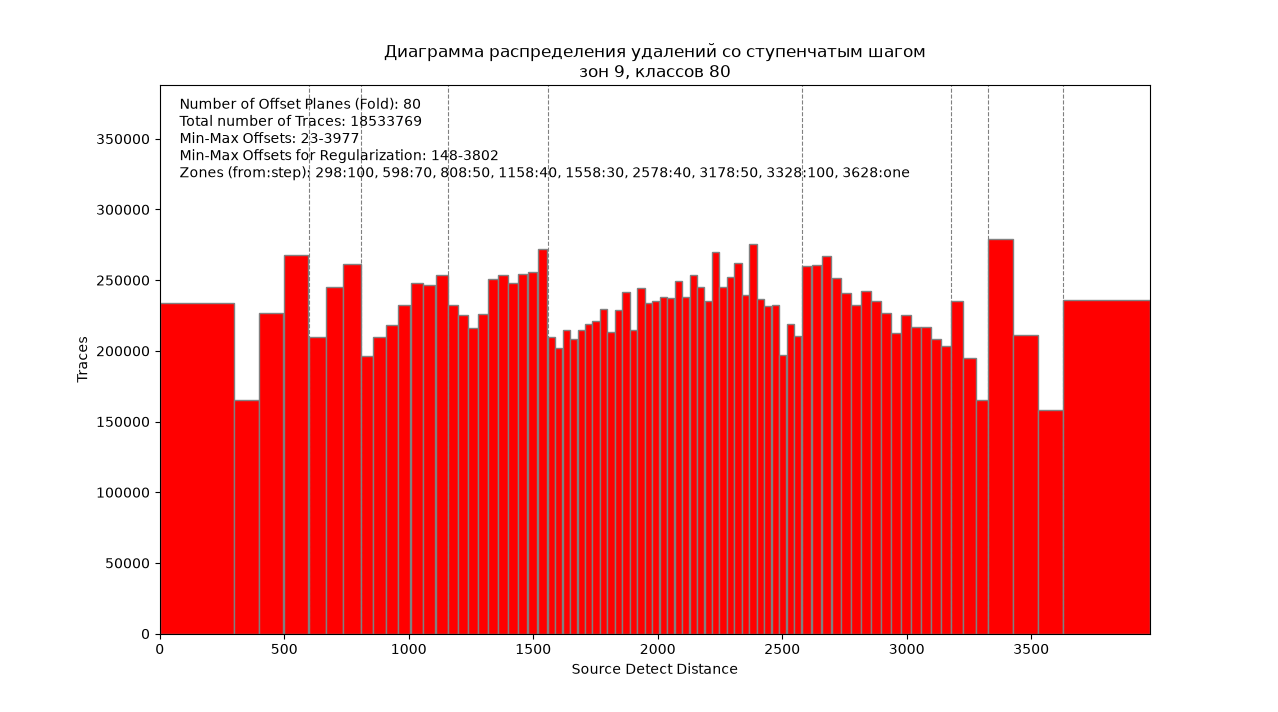
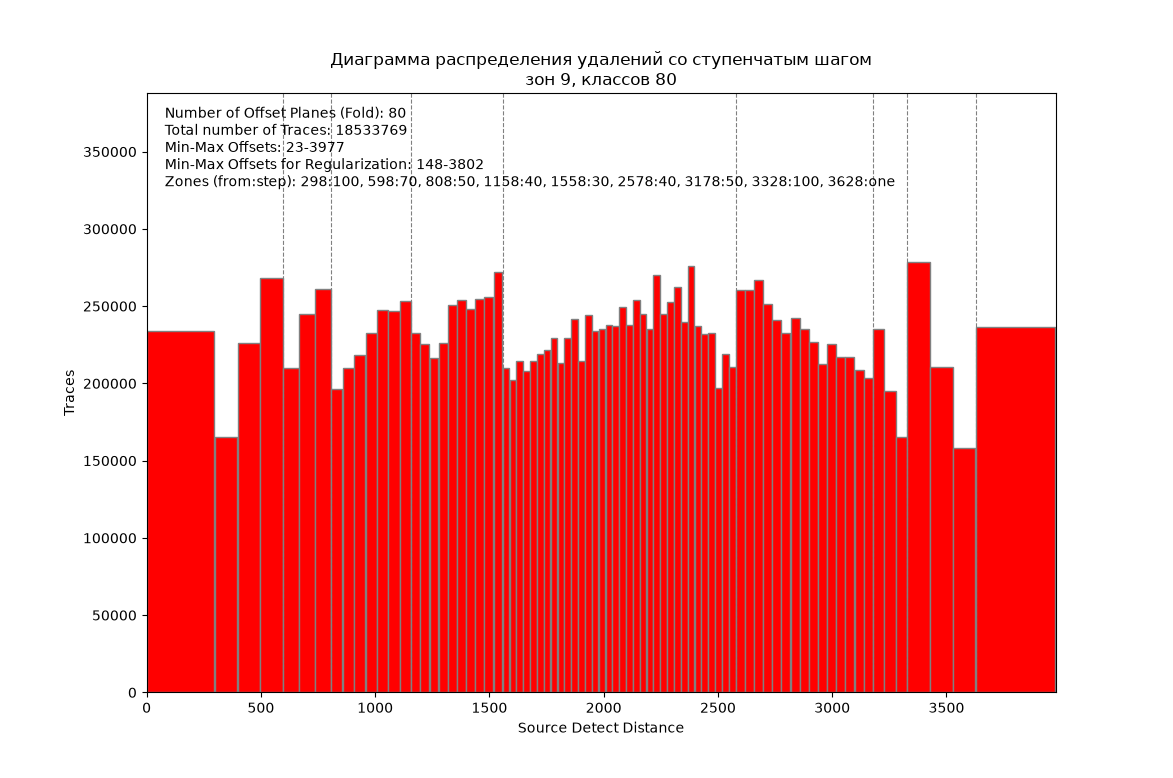
histogram_for_reg: картинки английской версии и окно со списком языка

diff --git a/docs/histogram_for_reg.en.md b/docs/histogram_for_reg.en.md
@@ -4,7 +4,7 @@ Offset distribution histogram for planning 3D regularization of seismic data. Th
 program splits offsets into classes, shows a histogram and writes a table of
 classes next to the input file, ready to be passed to 3D regularization.
 
-![histogram_for_reg window](img/histogram.png)
+![histogram_for_reg window](img/histogram_en.png)
 
 ## Download
 
@@ -43,7 +43,7 @@ offsets are taken as absolute values and equal ones are added up.
 Classes of equal width. Near offsets can be merged into a first class several
 steps wide, far offsets - into a last class starting from a given offset.
 
-![Constant step](img/histogram_const.png)
+![Constant step](img/histogram_const_en.png)
 
 ## Step by panels
 
@@ -53,7 +53,7 @@ towards far offsets. Classes hold about the target number of traces, as with
 equal-population classes, but within a panel the classes are regular - and there
 are fewer Kirchhoff migration artifacts than when every class has its own width.
 
-![Step by panels](img/histogram_step.png)
+![Step by panels](img/histogram_step_en.png)
 
 - **Number of offset classes** - how many classes
   the histogram will have. Exactly that many, if the other parameters allow it;
